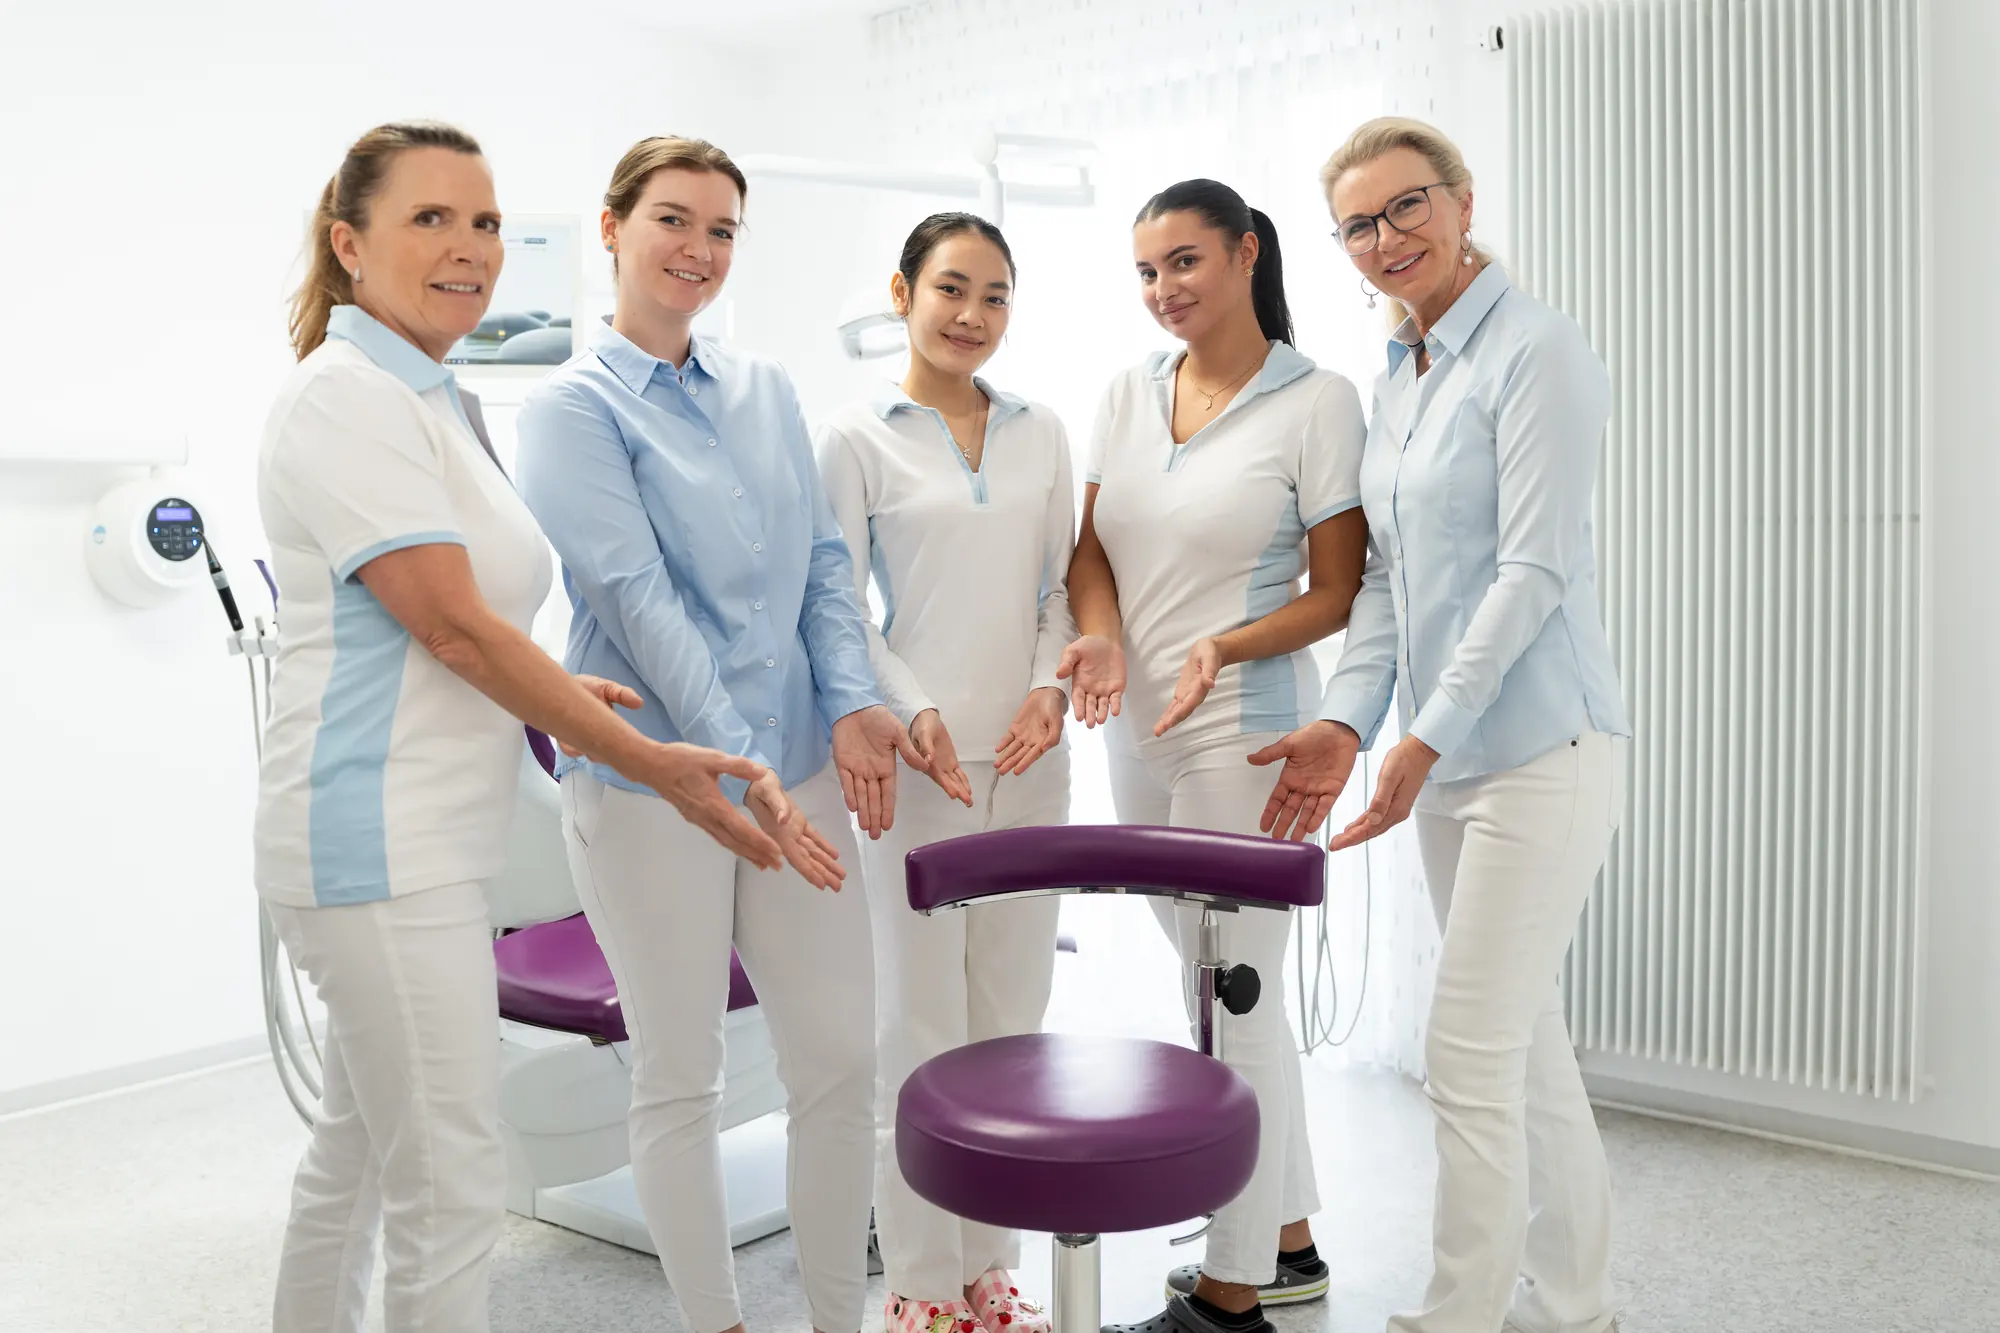
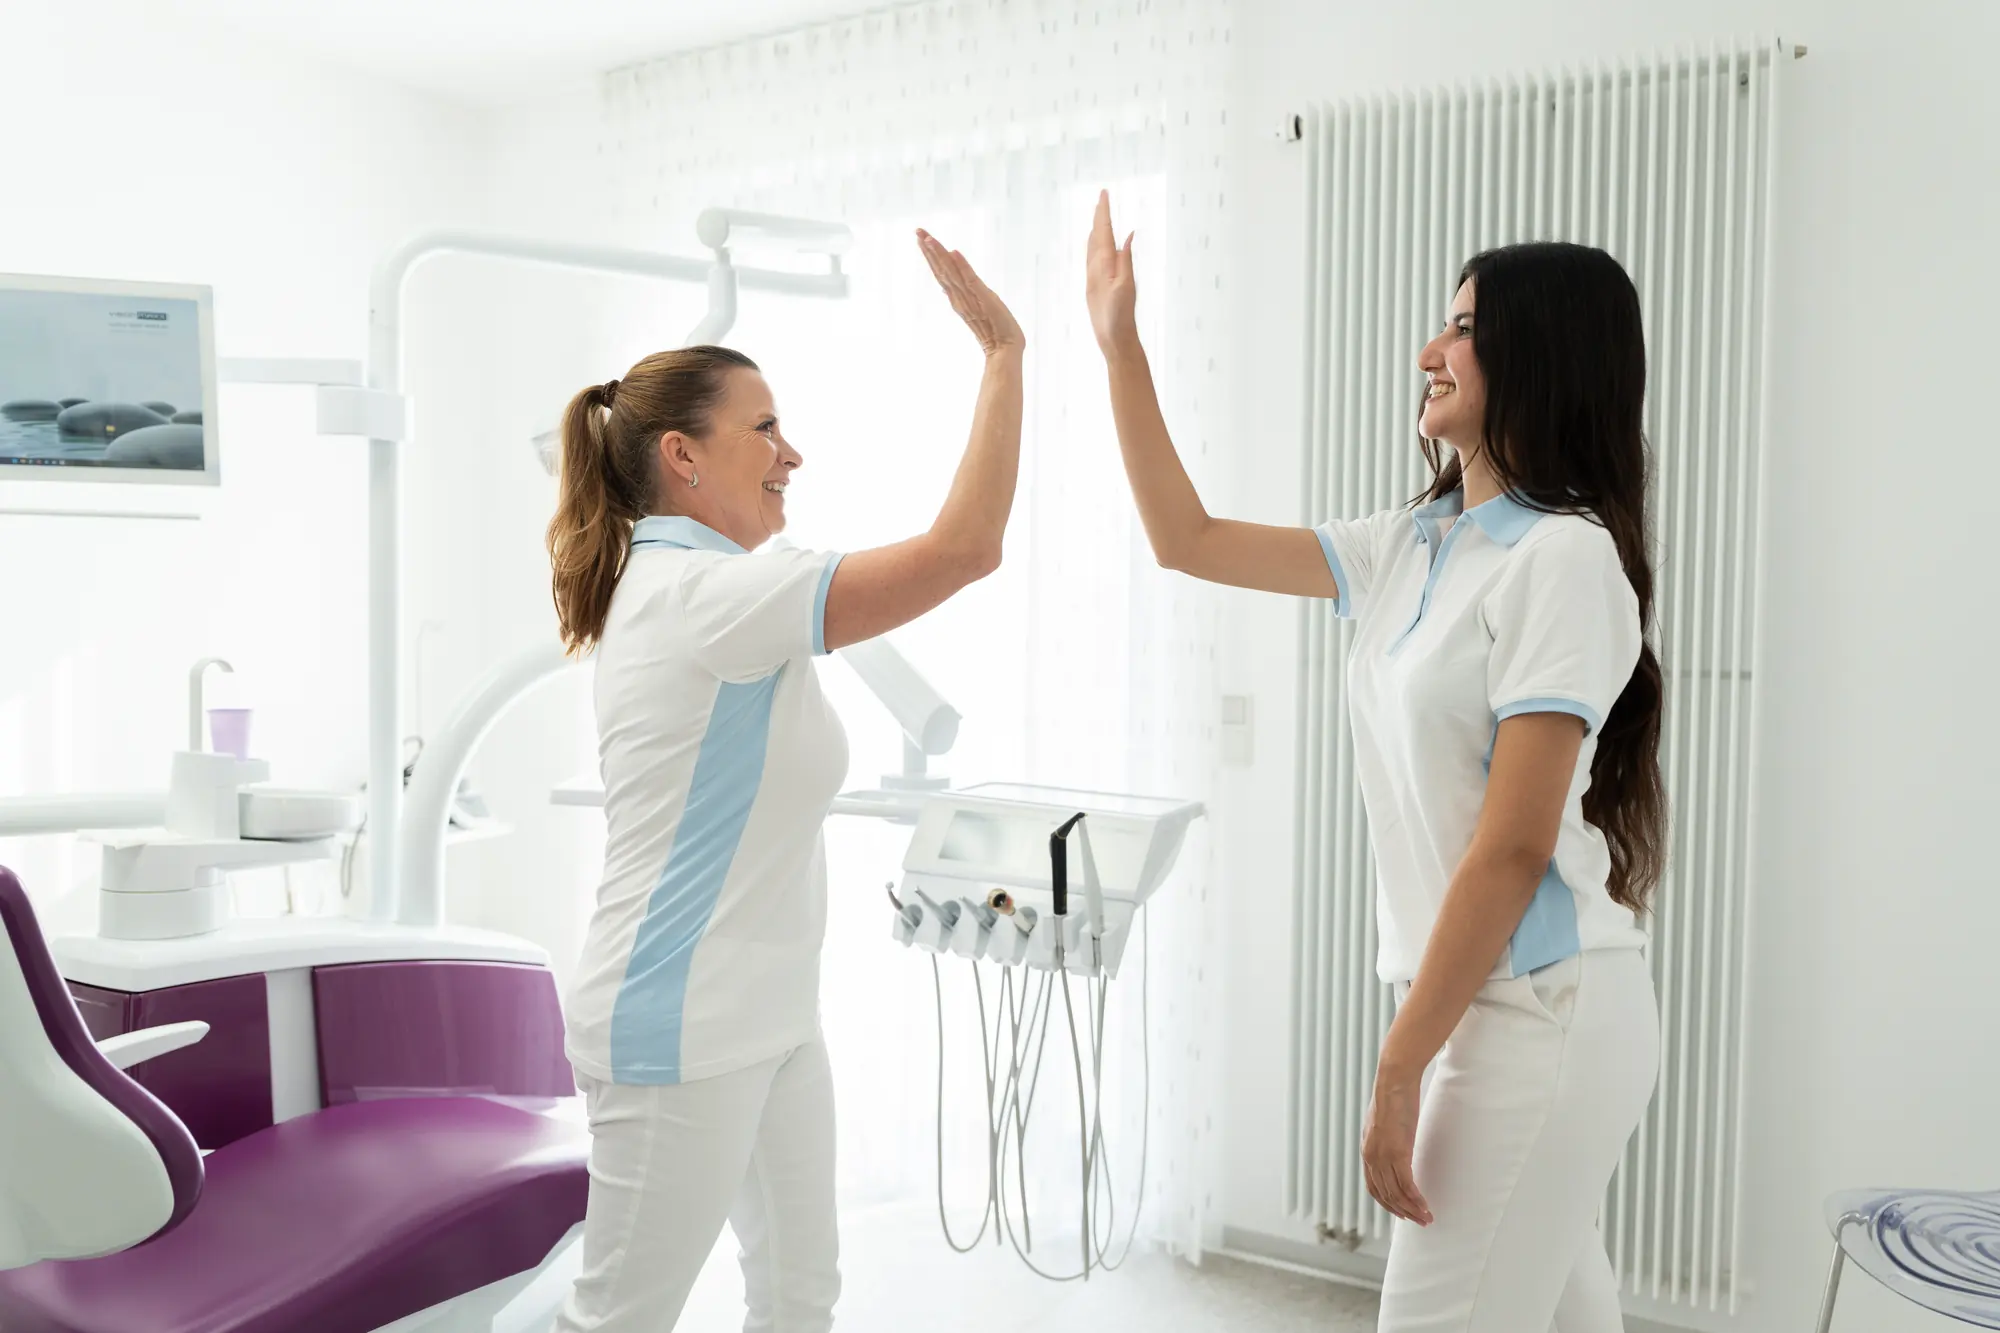
Team: neues Kopfbild und Gruppenfoto im Block Praxisteam (Wunsch Awan)
Kopfbild jetzt Nr. 23 (zwei Kolleginnen klatschen sich ab) statt Nr. 17.
Block „Anmeldung, Prophylaxe und Assistenz“: Gruppenfoto mit allen (Nr. 28) statt
Frau Messerschmidt mit Kollegin (Nr. 105), Datei heißt jetzt team-gruppe. Doku nachgezogen.

Claude-Session: https://claude.ai/code/session_01N6LENLdCUHbCSPuMQbj8wW

diff --git a/website/team.html b/website/team.html
@@ -47,7 +47,7 @@
 <main id="inhalt">
 <nav class="wrap brotkrumen" aria-label="Brotkrümelnavigation"><a href="index.html">Startseite</a> <span aria-hidden="true">/</span> <span aria-current="page">Team</span></nav>
 <section class="seitenkopf mit-bild">
-  <div class="seitenkopf-bild" data-parallax><picture><source srcset="assets/img/team-kopf.webp" type="image/webp"><img src="assets/img/team-kopf.jpg" alt="Fünf Frauen aus dem Team des Zahnzentrums Messerschmidt im Behandlungszimmer" width="2000" height="1333" style="object-position:50% 10%" fetchpriority="high"></picture></div>
+  <div class="seitenkopf-bild" data-parallax><picture><source srcset="assets/img/team-kopf.webp" type="image/webp"><img src="assets/img/team-kopf.jpg" alt="Zwei Kolleginnen des Zahnzentrums Messerschmidt klatschen sich im Behandlungszimmer ab" width="2000" height="1333" style="object-position:50% 25%" fetchpriority="high"></picture></div>
   <div class="wrap seitenkopf-text">
     <p class="dachzeile dachzeile-hell">Team</p>
     <h1>Modern, kompetent und herzlich.</h1>
@@ -120,7 +120,7 @@
 
 <section class="abschnitt flaeche">
   <div class="wrap zwei">
-    <figure class="bild-quer"><picture><source srcset="assets/img/team-duo.webp" type="image/webp"><img src="assets/img/team-duo.jpg" alt="Zwei Kolleginnen des Zahnzentrums" width="1200" height="800" loading="lazy" decoding="async"></picture></figure>
+    <figure class="bild-quer"><picture><source srcset="assets/img/team-gruppe.webp" type="image/webp"><img src="assets/img/team-gruppe.jpg" alt="Das Team des Zahnzentrums Messerschmidt im Behandlungszimmer" width="1200" height="800" loading="lazy" decoding="async"></picture></figure>
     <div class="text-spalte">
       <p class="dachzeile">Praxisteam</p>
       <h2>Anmeldung, Prophylaxe und Assistenz.</h2>

diff --git a/doku/entscheidungen.md b/doku/entscheidungen.md
@@ -28,7 +28,7 @@ Stand 06.10.2026, Awan Tofik mit Claude. Kein eigenes Onboarding für die Haupts
 | start-karriere | 112 | Start, Karriere |
 | start-kontakt | 1 | Kontakt, Anfahrt |
 | praxis-kopf / -gebaeude / -wartebereich / -empfang | 10 / 4 / 52 / 31 | Praxis (Kopf und Wartebereich getauscht am 08.10.2026, Wunsch Awan) |
-| team-kopf / team-sabine / team-duo | 17 / 57 / 105 | Team (team-kopf seit 08.10.2026 Nr. 17 statt Nr. 28, Gruppe mit neun Personen war auf 27 Zoll zu eng angeschnitten) |
+| team-kopf / team-sabine / team-gruppe | 23 / 57 / 28 | Team (08.10.2026, Wunsch Awan: Kopfbild Abklatschen Nr. 23, Block „Anmeldung, Prophylaxe und Assistenz“ jetzt Gruppenfoto Nr. 28 statt team-duo Nr. 105) |
 | team-olga-miller / team-alina-guenther | 91 / 83 | Team, Zahnärztinnen (seit 08.10.2026, Zuordnung von Awan) |
 | team-lisa-blatt | nicht aus dem Shooting | Team, Bildschirmfoto des Porträts von der bisherigen Seite (von Awan geschickt, 08.10.2026) |
 | kontakt-kopf | 12 | Kontakt (vorher Nr. 2, getauscht am 08.10.2026, Wunsch Awan) |
